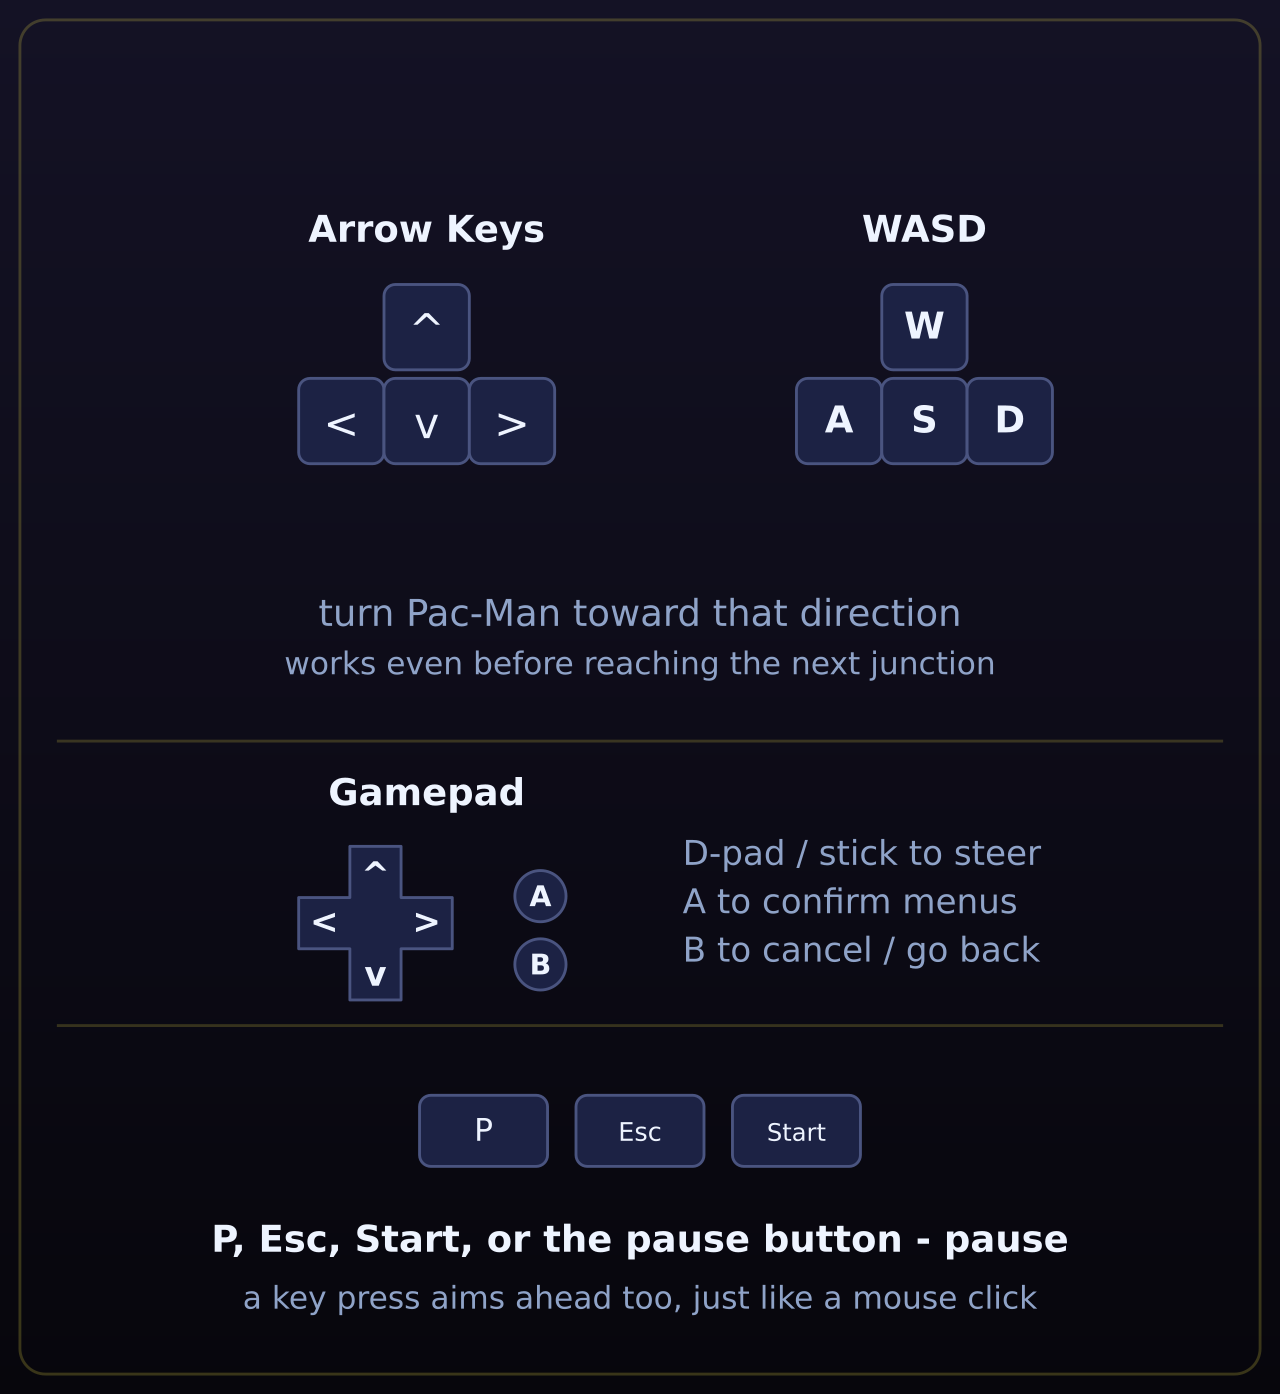
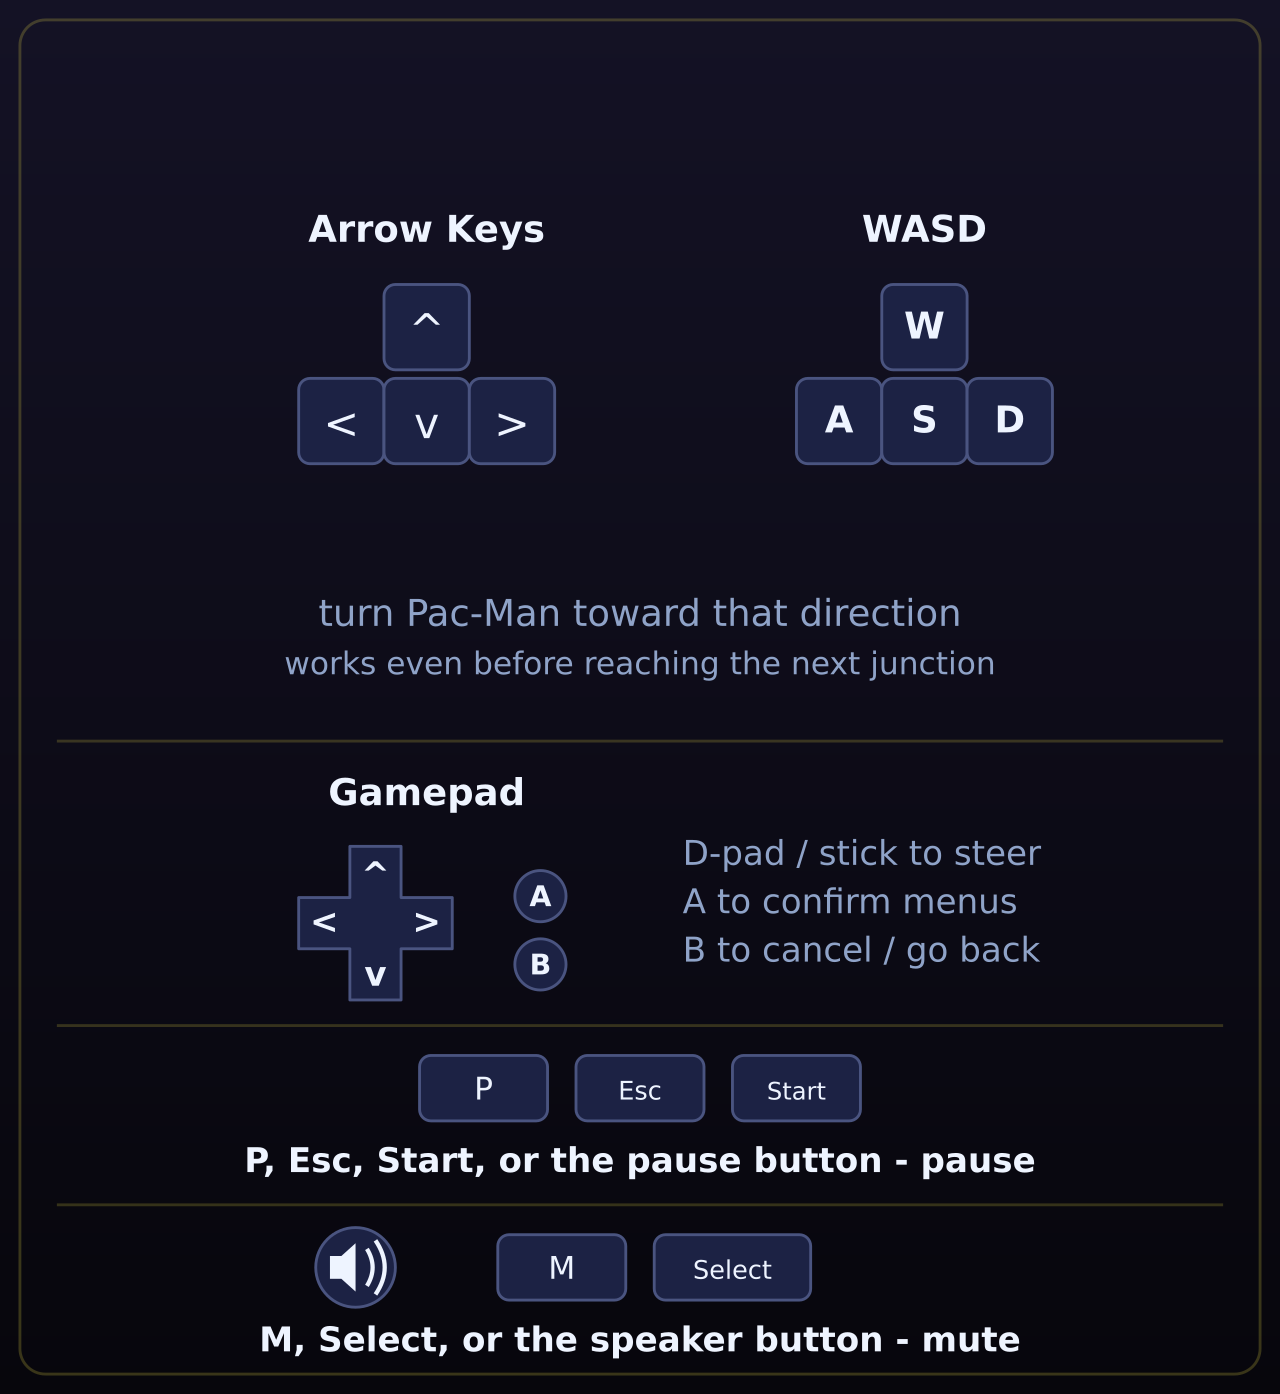
Mute-Button neben Pause (M / Select), Hilfe aktualisiert

Changed region(s): [[0.1562, 0.7403, 0.8438, 0.9871]]

diff --git a/TODO.md b/TODO.md
@@ -36,6 +36,7 @@ Gemeinsam für die Serie (Vorlage: mario-clone v1.6–v1.9):
 
 ## Erledigt
 
+- [x] 2026-10-05 v1.11 Mute-Button: runder Lautsprecher-Button links neben Pause (`mute_button.gd`, feste Position/Größe in `TouchControls._layout()`), Taste M und Pad-Select (`SoundManager.ensure_mute_action()`), Master-Bus-Mute, gespeichert in settings.cfg `[sound] muted`; Hilfe-Grafik „Keyboard / Gamepad“ zeigt ihn. Als Pflicht-Feature (Punkt 21) in die globale CLAUDE.md geschrieben.
 - [x] 2026-10-05 v1.11 Übungsmodus (Cheat wie bei mario-clone): im Startmenü Gamepad B, Y, X, A (A wird geschluckt) / Tastatur L E V E L S / Titel 5× antippen → Levelliste 1–99 (Farbe = Labyrinth); gestartete Läufe sind „cheated“: kein Highscore, kein Hall-of-Fame-Eintrag („PRACTICE RUN“-Hinweis), kein Continue-Checkpoint, HUD-Marke „PRACTICE“. Hilfeseite „Practice Mode“.
 - [x] 2026-10-05 v1.10 Jingles für die Zwischenspiele (`tools/make_jingles.py` → `assets/sounds/intermission1-3.wav`, Chiptune, Regler „Intermission jingle“ in den Sound-Einstellungen, Bild bleibt bis zum Ende des Jingles). Geisterverhalten je Labyrinth (`Game._MAZE_RULES`: Tempo, Scatter-/Chase-Dauer, Blauzeit, Geisterhaus-Limits, Pinky-/Inky-/Clyde-Parameter; Classic/Ambush/Cunning/Marathon/Furious).
 - [x] 2026-10-05 v1.9 Zwischenspiele (`intermission.gd`): nach Level 2, 5, 9 und danach jedem 4. Level ein kurzer Cartoon aus den Spiel-Sprites (Akt 1 Blinky jagt Pac-Man und wird dann vom Riesen-Pac-Man gejagt, Akt 2 Pinky+Inky, Akt 3 alle vier, am Ende rasen die Augen heim); ~8 s, mit beliebiger Taste/Tipp überspringbar.

diff --git a/CLAUDE.md b/CLAUDE.md
@@ -225,3 +225,5 @@ währenddessen. Offene Punkte sammelt ab jetzt `TODO.md`.
   bzw. L-E-V-E-L-S bzw. Titel 5× tippen) → `_mode_screen("levels")`;
   `_on_play(level, true)` setzt `cfg["cheat"]` → `Game.cheated` (kein Highscore/
   Checkpoint, `_game_stats()["cheated"]` blendet im Overlay die HoF-Eingabe aus).
+- **Mute-Button (v1.11)**: siehe globale CLAUDE.md Punkt 21; `mute_button.gd`,
+  `SoundManager.set_muted()`, Action `mute` zur Laufzeit registriert.
